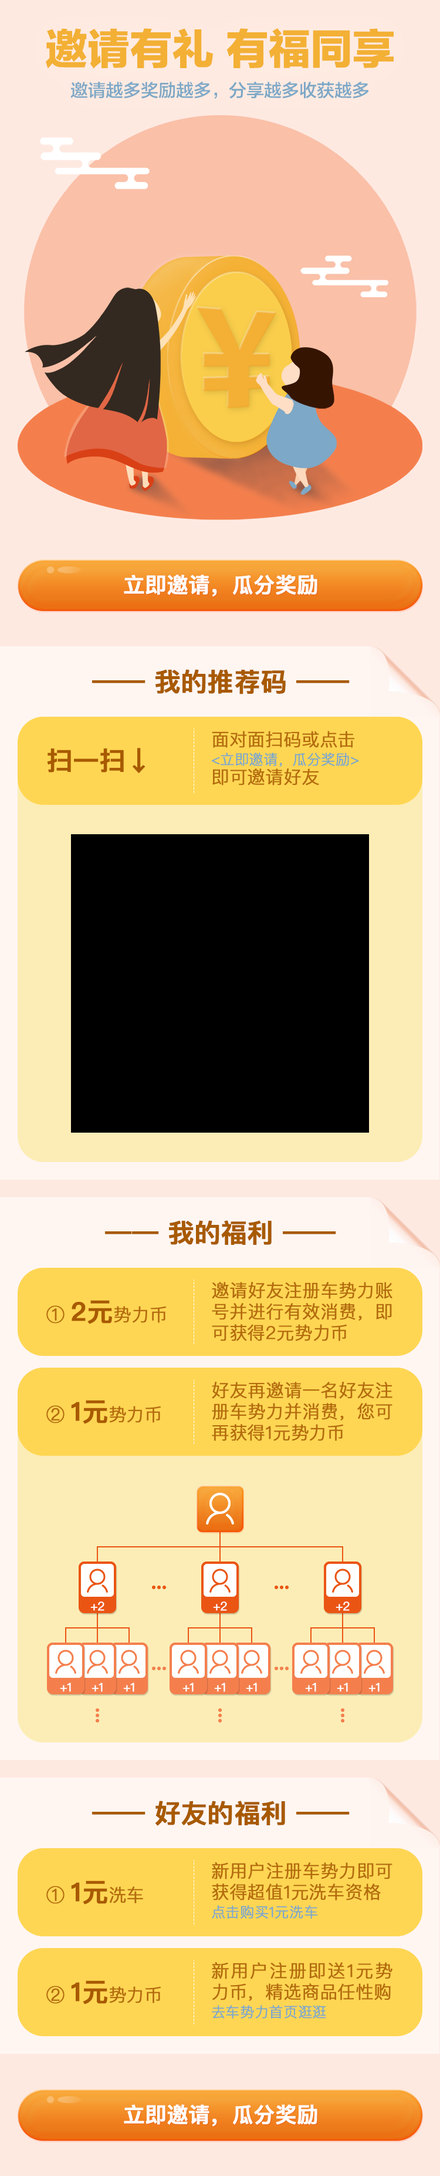
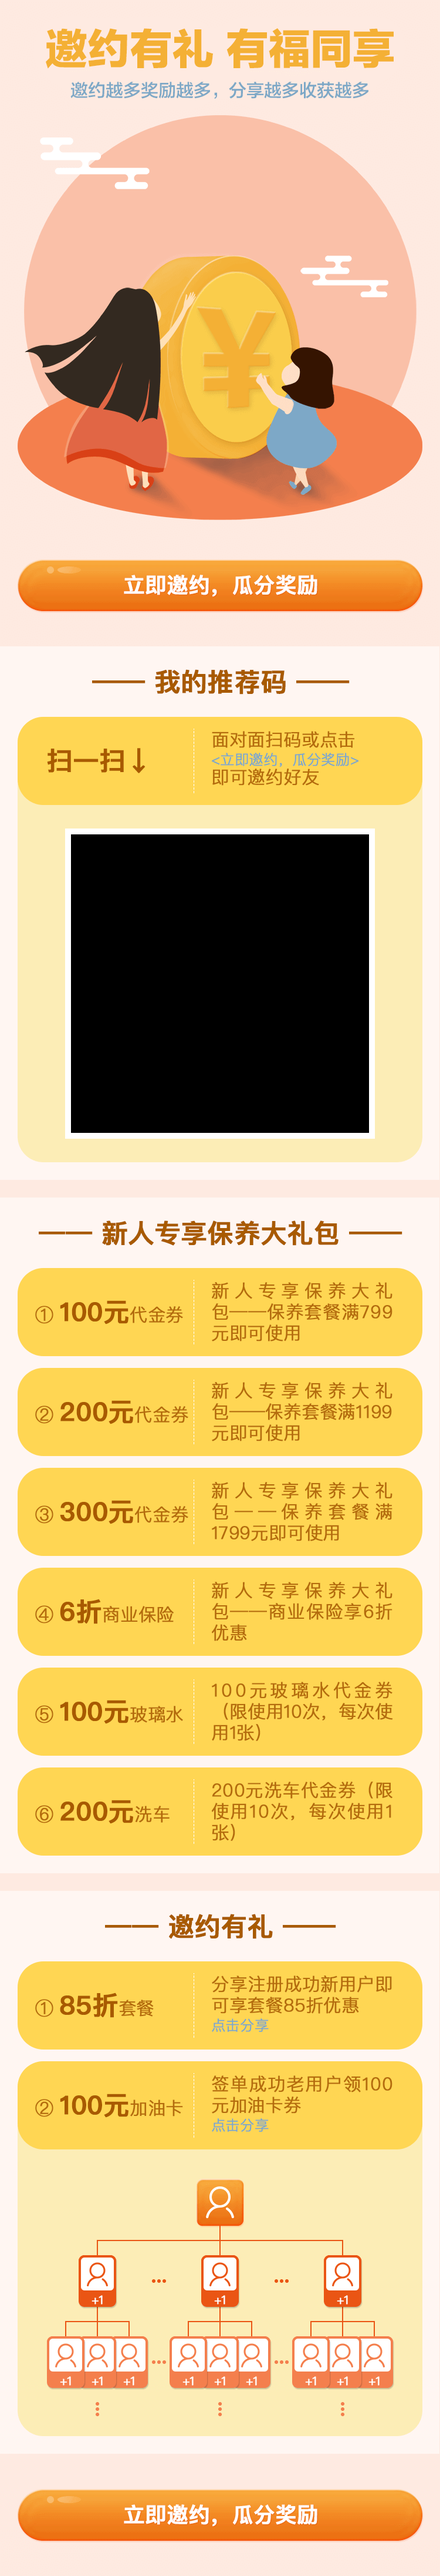
修改

diff --git a/wechat/web/main/home/recommend/recommend_view.js b/wechat/web/main/home/recommend/recommend_view.js
@@ -4,6 +4,7 @@ $(function() {
         pageStr = 'home_recommend',
         headerHeight = $page.find('>div.header').height(),
         w = $page.width();
+        console.log(w);
     // 设置界面高度
     $page.find('>div.main').height(
         bodyHeight - headerHeight - 1
@@ -104,9 +105,12 @@ $(function() {
     $page.find('map').html(template(pageStr + '_map_area', {
         btn1Coords: w * 0.04 + ',' + w * 1.267 + ',' + w * 0.96 + ',' + w * 1.389,
         btn2Coords: w * 0.48 + ',' + w * 1.693 + ',' + w * 0.827 + ',' + w * 1.747,
-        btn3Coords: w * 0.467 + ',' + w * 4.312 + ',' + w * 0.72 + ',' + w * 4.36,
-        btn4Coords: w * 0.467 + ',' + w * 4.544 + ',' + w * 0.747 + ',' + w * 4.587,
-        btn5Coords: w * 0.04 + ',' + w * 4.741 + ',' + w * 0.96 + ',' + w * 4.859
+        //btn3Coords: w * 0.467 + ',' + w * 4.312 + ',' + w * 0.72 + ',' + w * 4.36,
+        //btn4Coords: w * 0.467 + ',' + w * 4.544 + ',' + w * 0.747 + ',' + w * 4.587,
+        //btn5Coords: w * 0.04 + ',' + w * 4.741 + ',' + w * 0.96 + ',' + w * 4.859
+        btn3Coords: w * 0.467 + ',' + w * 4.573 + ',' + w * 0.72 + ',' + w * 4.62,
+        btn4Coords: w * 0.467 + ',' + w * 4.8 + ',' + w * 0.747 + ',' + w * 4.846,
+        btn5Coords: w * 0.04 + ',' + w * 5.652 + ',' + w * 0.96 + ',' + w * 5.7666
     }));
     $('#home_recommend_qrcode').css({
         width: w * 0.681,

diff --git a/wechat/web/main/home/recommend/recommend.html b/wechat/web/main/home/recommend/recommend.html
@@ -5,7 +5,7 @@
         <!-- <span class="share">分享</span> -->
     </div>
     <div class="main">
-        <img class="bg" src="./images/recommend/recommendbg.png" usemap="#home_recommend_map">
+        <img class="bg" src="./images/recommend/recommend.png" usemap="#home_recommend_map">
         <map name="home_recommend_map"></map>
         <div id="home_recommend_qrcode" class="qrcode"></div>
         <!-- <div class="content">
@@ -18,8 +18,8 @@
     <script id="home_recommend_map_area" type="text/html">
         <area shape="rect" coords="{{btn1Coords}}" onclick="recommend.invite()">
         <area shape="rect" coords="{{btn2Coords}}" onclick="recommend.invite()">
-        <area shape="rect" coords="{{btn3Coords}}" onclick="recommend.wash()">
-        <area shape="rect" coords="{{btn4Coords}}" onclick="recommend.index()">
+        <area shape="rect" coords="{{btn3Coords}}" onclick="recommend.invite()">
+        <area shape="rect" coords="{{btn4Coords}}" onclick="recommend.invite()">
         <area shape="rect" coords="{{btn5Coords}}" onclick="recommend.invite()">
     </script>
 </div>
